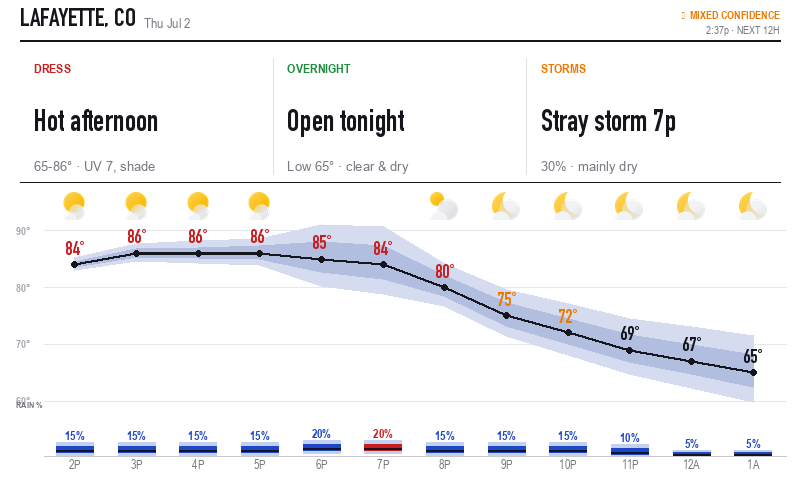
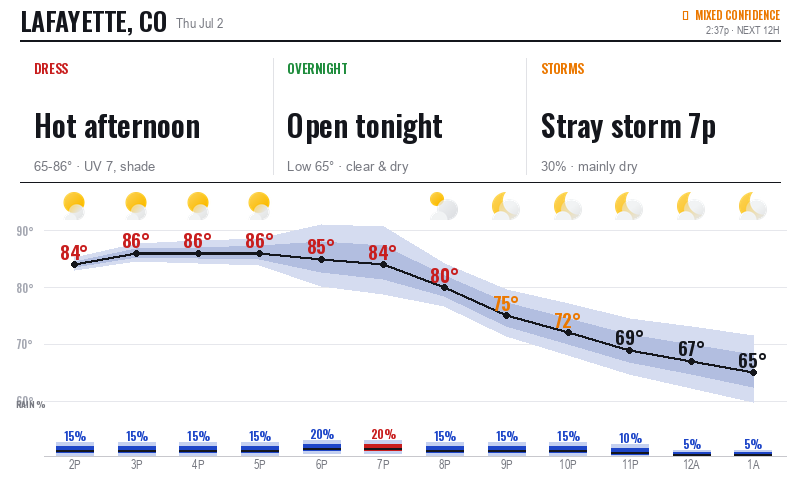
docs: lock Oswald font, ranked advice model, AQI/wind source
Spec updates from the design workshop:
- Display face resolved to Oswald (OFL, bundled for the Pi).
- Advice reworked to the validated ranked 3-slot model (slot 1 always
  a temp/dress card; slots 2-3 top-scoring hazards) with first-draft
  thresholds/wording proven across 7 scenarios.
- Add Open-Meteo Air-Quality (US AQI) + wind_gusts as sources for the
  SMOKE and WIND cards.
- Add workshop mockups for 5 varied US locations; regenerate primary
  mockups in Oswald.

diff --git a/docs/superpowers/specs/2026-07-02-weather-display-redesign-design.md b/docs/superpowers/specs/2026-07-02-weather-display-redesign-design.md
@@ -39,7 +39,8 @@ cards** (the verdict) with a **rich ensemble graph** (the evidence).
 | Source | Role |
 |---|---|
 | **Google Maps Platform Weather API** (existing) | Deterministic hourly forecast: temp, feels-like, precip probability & type, thunderstorm probability, UV, condition + **official condition icons** (`iconBaseUri`). Drives the "expected" line, the advice logic, and the per-hour icons. |
-| **Open-Meteo Ensemble API** (new) | GEFS ensemble members (hourly, free for non-commercial use, no API key). Drives the **temperature spread band** and the **precip spread**, plus the **confidence badge**. Endpoint: `https://api.open-meteo.com/v1/ensemble` with `models=gfs_seamless`, `hourly=temperature_2m,precipitation_probability` (or `precipitation`). |
+| **Open-Meteo Ensemble API** (new) | GEFS ensemble members (hourly, free for non-commercial use, no API key). Drives the **temperature spread band** and the **precip spread**, plus the **confidence badge**. Endpoint: `https://api.open-meteo.com/v1/ensemble` with `models=gfs_seamless`, `hourly=temperature_2m,precipitation_probability` (or `precipitation`). Also supplies **`wind_gusts_10m`** for the WIND card (deterministic Open-Meteo forecast, same request family). |
+| **Open-Meteo Air-Quality API** (new) | US AQI for the SMOKE/AQI card (wildfire season). Endpoint: `https://air-quality-api.open-meteo.com/v1/air-quality` with `hourly=us_aqi`. **Confirmed worth the extra call.** |
 
 Google's public API is powered by an ensemble model (WeatherNext 2) but only exposes
 deterministic values + a probability — not raw members — hence the second source for spread.
@@ -65,36 +66,51 @@ ensemble bands room to read, which matters most for the data-geek half.
 
 ## 5. Advice Cards — the 3-slot adaptive system
 
-**Model:** there is a *pool* of card types. Every refresh, each eligible card computes a
-**priority score**; the top 3 fill the slots, rendered left→right in a stable display order.
-This keeps the display relevant (morning shows dress/rain/UV; a stormy afternoon shows
-storms/rain/dress; an evening shows overnight/etc.).
+**Model (validated against 7 scenarios):**
 
-**Card pool** (all confirmed in scope):
+- **Slot 1 is always a temperature / "what to wear" card** (DRESS and its variants). It always
+  carries the day's temp range, so the wear-decision is never crowded out.
+- **Slots 2–3 are the top-scoring *situational* cards.** Each eligible situational card computes
+  a **priority score**; the two highest fill the remaining slots, rendered left→right by score.
 
-| Card | Triggers when | Example verdict / detail |
+This kept the display relevant across every test: Phoenix → heat / UV / warm-night; Denver →
+bundle-up / snow / wind; Seattle → cool-damp / wet-window / overnight; Sacramento → hot /
+smoke / warm-night; Chicago → cool / gusty / turning-colder; plus the two original storm days.
+
+**Slot 1 — temperature card (first-draft bands):**
+
+| Condition | Verdict | Detail |
 |---|---|---|
-| DRESS | always eligible (core) | `Warm, cools late` · `63–81° · humid AM` |
-| RAIN / OUTDOORS | rain in window (core) | `Morning window` · `Dry till 12p · wet 12–4p` |
-| STORMS | thunderstorm prob ≥ threshold | `T-storms 2p` · `65% · brief, heavy` |
-| OVERNIGHT | evening refresh + night hours ahead | `Open tonight` · `Low 65° · clear & dry` |
-| SNOW | snow in precip type/amount | `Snow after 12a` · `2–4"` |
-| WIND | gusts over threshold | `Breezy` · `Gusts 25 mph pm` |
-| SMOKE / AQI | AQI over threshold (wildfire season) | `Hazy` · `AQI 130 · limit exertion` |
-| UV / SUN | UV index ≥ threshold, no bigger hazard | `Strong UV` · `Index 7 midday · hat + SPF` |
-| SWING | ensemble spread wide | `Could be 78–88°` · `models disagree pm` |
-| TREND | notable warmer/cooler vs today | `Cooler than today` · `−8° by evening` |
+| low ≤ 32° | `Bundle up` | `20–30° · frost` |
+| hi ≥ 100° | `Dangerous heat` | `90–112° · hydrate, shade` |
+| hi ≥ 90° | `Hot` | `80–98° · UV n, shade` |
+| hi ≥ 80° | `Warm, cools late` | `63–81° · muggy/pleasant` |
+| hi ≥ 62° | `Mild` | `52–61° · easy layers` |
+| else | `Cool` / `Cool & damp` | `47–54° · layers` |
 
-**Confidence** is a header badge, not a card (derived from mean ensemble band width).
+**Slots 2–3 — situational cards (first-draft triggers & scores; higher wins):**
 
-**Vocabulary & thresholds are intentionally first-draft here** and will be worked through in
-detail as the first implementation step (this is the "make or break" layer). Thresholds live
-in `config.py` so wording/cutoffs can be tuned after living with the display. Priority scoring
-(how a 65%-storm outranks a UV card, etc.) is part of that detailed pass.
+| Card | Trigger | Score | Verdict / detail |
+|---|---|---|---|
+| SNOW | precip type = snow, pop ≥ 30 | 95 | `Snow all day` · `6" likely · roads slick` |
+| STORMS | thunder ≥ 45 / 25 | 90 / 68 | `T-storms 2p` · `65% · brief, heavy` |
+| SMOKE | US AQI ≥ 150 / 100 | 88 / 64 | `Unhealthy air` · `AQI 168 · stay indoors` |
+| WIND | gusts ≥ 35 / 25 | 80 / 56 | `Gusty` · `Gusts 45 mph · secure loose items` |
+| OUTDOORS/RAIN | pop ≥ 50 (non-snow) | 72 | `Wet window` · `Rain 8a–12p` |
+| UV / SUN | UV ≥ 9 / 6 | 60 / 44 | `Extreme UV` · `Index 11 · cover up` |
+| TREND | cools ≥ 12° **and** late low ≤ 65° | 58 | `Turning colder` · `58°→39° by evening` |
+| OVERNIGHT | night hours ahead | 50 | `Open tonight` / `Warm night` / `Cold night` / `Storms overnight` (by low & storm risk) |
+| (fallback) | nothing else triggers | 30 | `Great window` · `Clear & calm ahead` |
+| SWING | ensemble p10–p90 wide | tbd | `Could be 78–88°` · `models disagree pm` |
 
-WIND, SMOKE/AQI require fields not in the current Google parse; they come from Open-Meteo
-(`wind_gusts_10m`) and Open-Meteo Air-Quality API respectively. If a field is unavailable, the
-card is simply ineligible.
+Notes from the workshop pass: TREND must be gated on the late low actually being cool (else a
+112°→90° afternoon wrongly reads as "colder"); OVERNIGHT branches by low (`≤45` cold/heat-on,
+`≤68` open, `≥70` warm/stuffy) and by overnight storm risk. **Confidence** is a header badge,
+not a card (from mean band width). SWING scoring is still open.
+
+These bands/scores/wording live in `config.py` so they can be tuned after living with the
+display — this is the "make or break" layer and is expected to keep evolving. If a data field
+is unavailable (e.g. Open-Meteo down), the dependent card is simply ineligible.
 
 ## 6. The Ensemble Graph
 
@@ -120,15 +136,16 @@ Full-width temperature graph with a precip strip along the bottom.
 - **X axis.** AM/PM hour labels.
 
 Known polish items for implementation: bottom gridline label can collide with the `RAIN %`
-caption; near-zero precip bars shrink to specks (clamp a minimum).
+caption; near-zero precip bars must draw nothing below ~5% pop (phantom-bar fix already proven
+in the mockups). Snow precip bars are colored purple, storm bars red, rain bars blue.
 
 ## 7. Typography & Color
 
-- **Display face:** a condensed grotesque (mockups use *DIN Condensed Bold*). DIN Condensed is
-  a macOS system font and is **not** on the Raspberry Pi (DejaVu only), so we must **bundle an
-  open-license condensed face** in `inky_weather/assets/fonts/` (e.g. Barlow Semi Condensed,
-  Saira Condensed, or Oswald) and load it explicitly. Body/label text: a narrow sans (Arial
-  Narrow in mockups → bundled equivalent).
+- **Display face: Oswald (SemiBold / weight 600), confirmed.** OFL-licensed, so we **bundle
+  `Oswald` in `inky_weather/assets/fonts/`** and load it explicitly (the Raspberry Pi has only
+  DejaVu). Used for the location header, card category labels, card verdicts, and the graph's
+  temp numerals/gridline labels. Body/detail text stays a plain narrow sans (Arial Narrow in
+  mockups → a bundled equivalent such as DejaVuSansCondensed on the Pi).
 - **Palette:** the existing 7-color constants. Accents used sparingly and semantically: red =
   hot/storm, orange = warm/caution, blue = cool/rain, green = good/comfortable, ink = neutral.
   Ensemble bands are light blue-grays that quantize acceptably on the panel.
@@ -167,7 +184,15 @@ logic; multi-day may return later as a TREND card but not as a strip.
 
 ## 10. Open Items (resolved during implementation, not blocking this spec)
 
-1. Advice vocabulary, thresholds, and priority scoring — detailed pass, config-driven.
+1. Advice vocabulary, thresholds, and priority scoring — **first draft in §5** (validated over 7
+   scenarios); refined and moved into `config.py` during implementation.
 2. Precip bar style (floating vs grounded) — chosen on the real panel.
-3. Bundled condensed font choice + license.
+3. ~~Bundled display font~~ — **resolved: Oswald (OFL).**
 4. Exact Open-Meteo request shape and whether to store raw members or precomputed percentiles.
+5. SWING card scoring (when a wide ensemble earns a slot vs. just widening the band).
+
+## 11. Reference Mockups
+
+Committed under `docs/design/` (real 800×480 renders in the 7-color palette, Oswald face):
+`redesign-mock-storm.png`, `redesign-mock-hot.png`, and the workshop set
+`loc-phoenix/denver/seattle/sacramento/chicago.png`.
